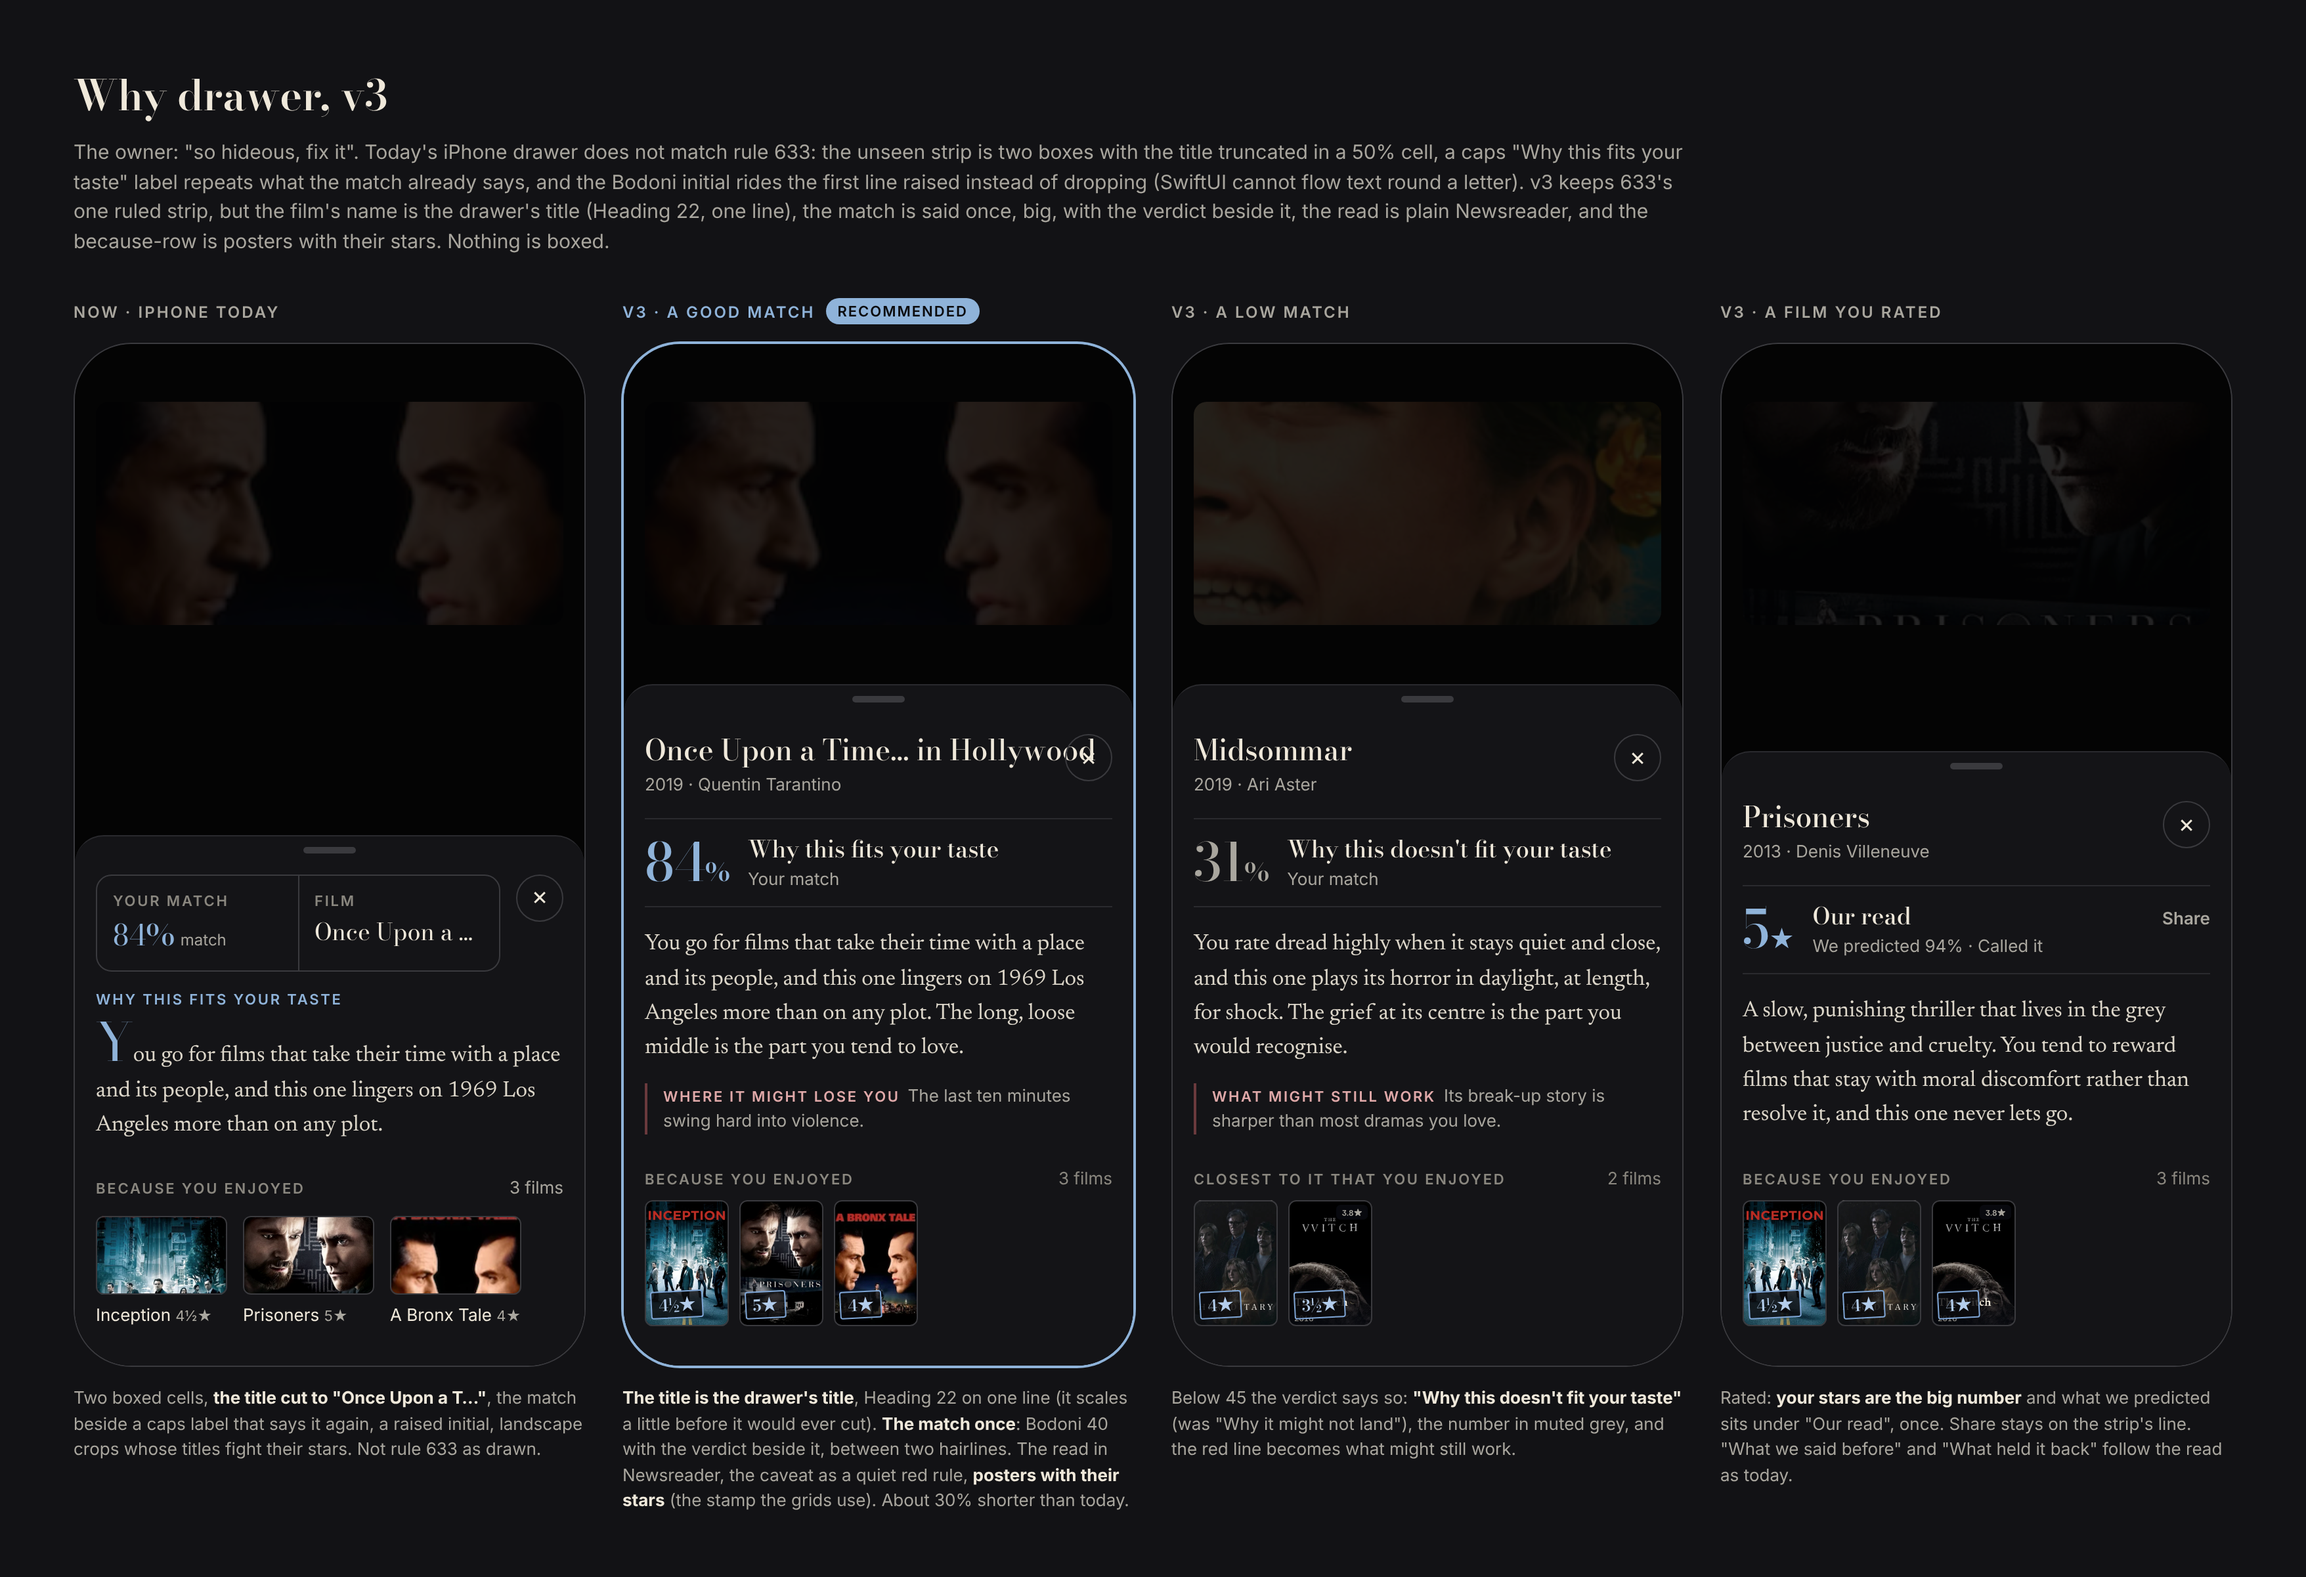
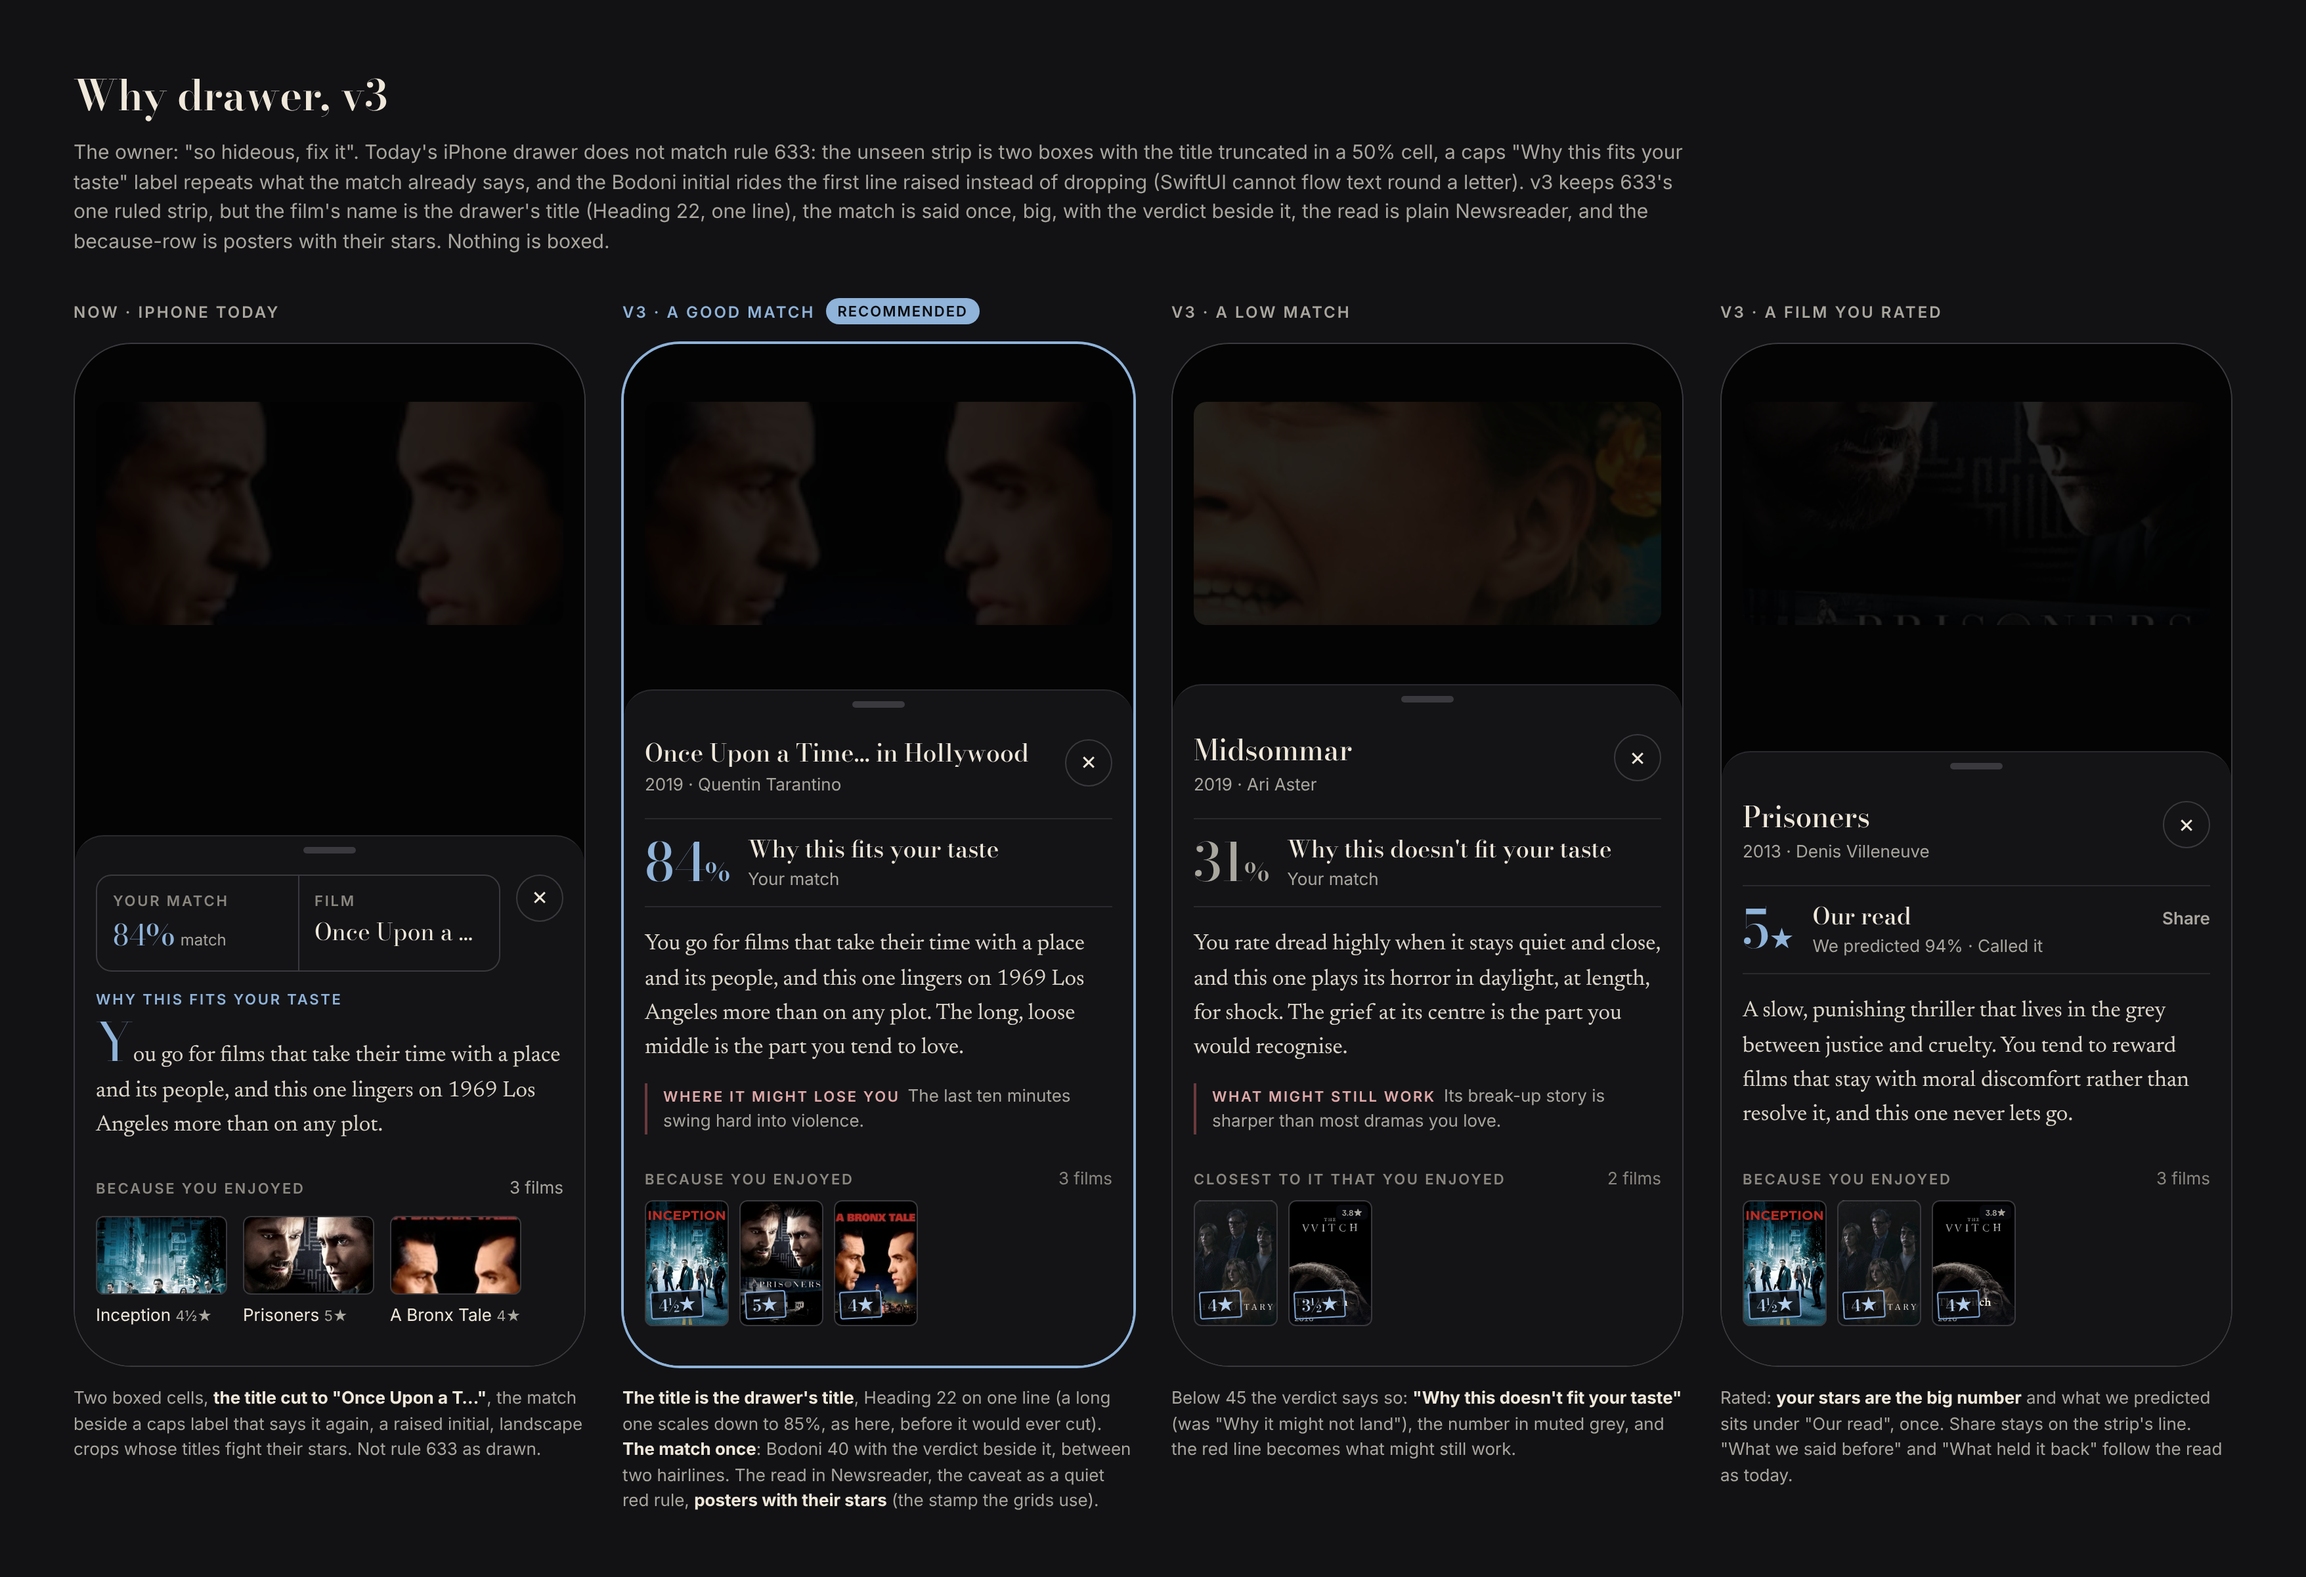
Why drawer v3 mock: now vs v3 (good match, low match, rated), title scales to fit
Claude-Session: https://claude.ai/code/session_013WRDCFXH8nihP92apJAVW7

Changed region(s): [[0.2793, 0.8743, 0.4966, 0.9679], [0.2793, 0.4371, 0.4966, 0.4996]]

diff --git a/mockups/why-drawer-v3.html b/mockups/why-drawer-v3.html
@@ -28,7 +28,7 @@ h1{font:600 32px 'Bodoni Moda'}
 /* v3 */
 .hd{display:flex;align-items:flex-start;gap:12px}
 .hd-t{flex:1;min-width:0}
-.hd-title{font:500 22px/1.15 'Bodoni Moda';white-space:nowrap}
+.hd-title{font:500 22px/1.15 'Bodoni Moda';white-space:nowrap;overflow:hidden;text-overflow:ellipsis}
 .hd-meta{font-size:13px;color:#A9A69E;margin-top:4px}
 .strip{display:flex;align-items:center;gap:14px;margin-top:16px;padding:12px 0;border-top:1px solid #2A2A2E;border-bottom:1px solid #2A2A2E}
 .big{font:500 40px/1 'Bodoni Moda';color:#8FB3D9;letter-spacing:-.5px}
@@ -77,7 +77,7 @@ h1{font:600 32px 'Bodoni Moda'}
 <div class="col"><div class="tag rec">v3 · A good match<span class="badge">Recommended</span></div>
 <div class="phone recb"><div class="page"><div class="hero" style="background-image:url(img/bronx.png)"></div></div><div class="dim"></div>
 <div class="dr"><div class="grab"></div>
-  <div class="hd"><div class="hd-t"><div class="hd-title">Once Upon a Time… in Hollywood</div><div class="hd-meta">2019 · Quentin Tarantino</div></div><div class="x">✕</div></div>
+  <div class="hd"><div class="hd-t"><div class="hd-title" style="font-size:18.7px">Once Upon a Time… in Hollywood</div><div class="hd-meta">2019 · Quentin Tarantino</div></div><div class="x">✕</div></div>
   <div class="strip"><div class="big">84<small>%</small></div><div><div class="verdict">Why this fits your taste</div><div class="vsub">Your match</div></div></div>
   <p class="read">You go for films that take their time with a place and its people, and this one lingers on 1969 Los Angeles more than on any plot. The long, loose middle is the part you tend to love.</p>
   <div class="cav"><b>Where it might lose you</b>The last ten minutes swing hard into violence.</div>
@@ -88,7 +88,7 @@ h1{font:600 32px 'Bodoni Moda'}
     <div class="po" style="width:64px;height:96px;background-image:url(img/bronx.png)"><span class="stamp">4★</span></div>
   </div>
 </div></div>
-<div class="cap"><b>The title is the drawer's title</b>, Heading 22 on one line (it scales a little before it would ever cut). <b>The match once</b>: Bodoni 40 with the verdict beside it, between two hairlines. The read in Newsreader, the caveat as a quiet red rule, <b>posters with their stars</b> (the stamp the grids use). About 30% shorter than today.</div></div>
+<div class="cap"><b>The title is the drawer's title</b>, Heading 22 on one line (a long one scales down to 85%, as here, before it would ever cut). <b>The match once</b>: Bodoni 40 with the verdict beside it, between two hairlines. The read in Newsreader, the caveat as a quiet red rule, <b>posters with their stars</b> (the stamp the grids use).</div></div>
 
 <!-- V3 LOW -->
 <div class="col"><div class="tag">v3 · A low match</div>
